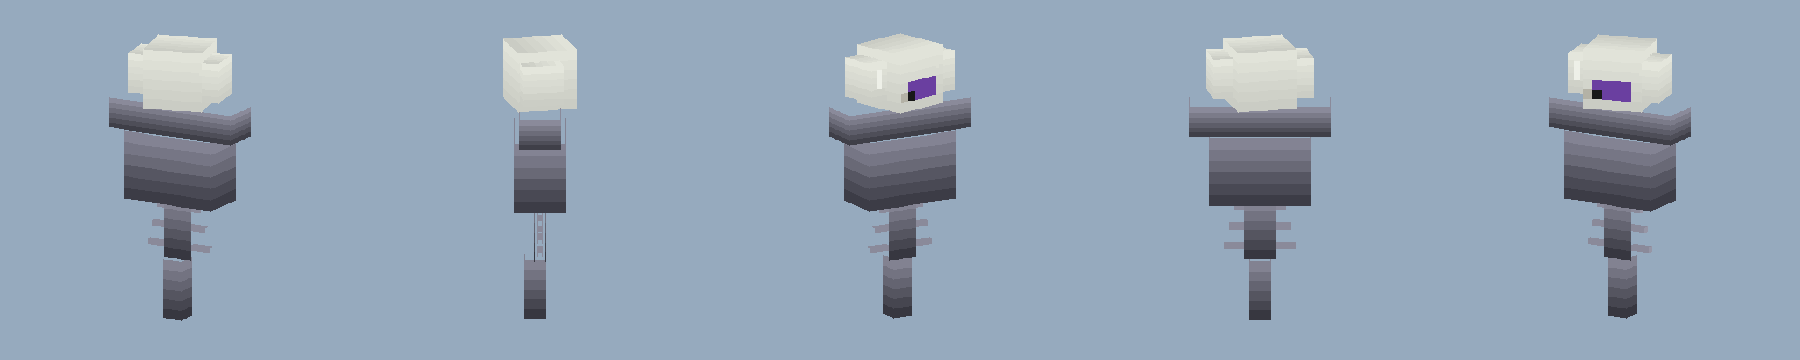
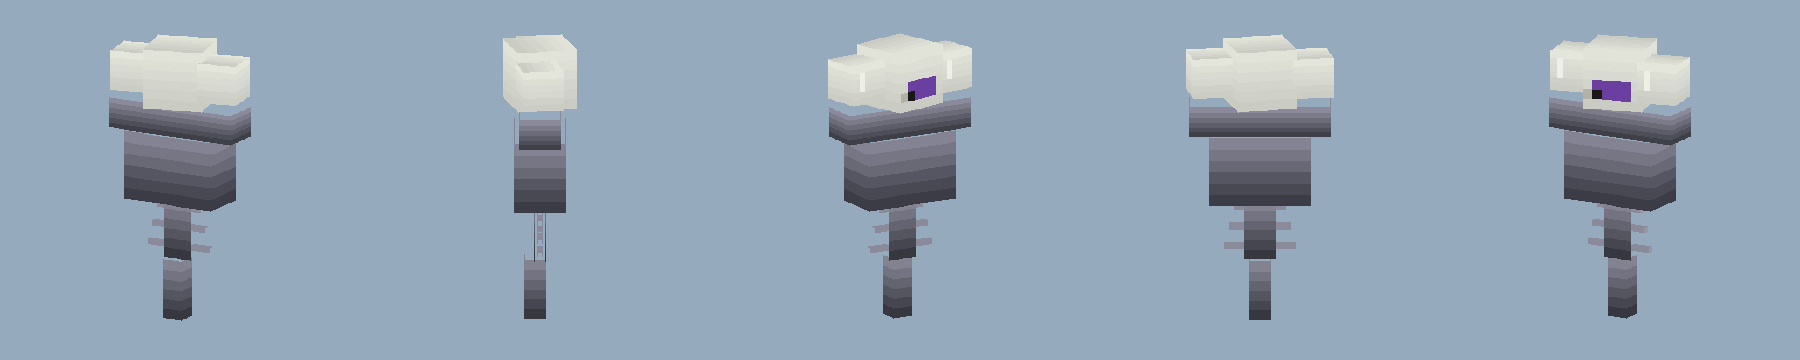
vault sync from DESKTOP-49GFK3E

diff --git a/Agents/wither-model.md b/Agents/wither-model.md
@@ -8,7 +8,8 @@ mods: kingdoms
 versions: 
 started: 2026-11-18
 owns:
-  - art/wither.bbmodel
+  - kingdoms/art/wither.bbmodel
+  - kingdoms/art/wither.png
   - docs/Wither-Model-Spec.md
 ---
 # Wither: new model, animations and sounds (modelling bot)
@@ -25,12 +26,13 @@ owns:
 - Build and verify compiles
 
 ## Notes
-- Spec doc created at docs/Wither-Model-Spec.md
-- Minimal .bbmodel created at kingdoms/art/wither.bbmodel
-- Texture: 128x128 solid red (placeholder; will be replaced with proper Wither texture)
-- Model has: root, body, center head, left head, right head groups
-- Status: blocked awaiting Andy's preview approval
-- Task referenced in vault: E:/Jaymo Vault Live/Inbox/wither-model.md with status: blocked
+- 2026-11-18: restarted after Andy sent the first attempt back (invalid JSON .bbmodel, no render, spec wrongly gave the Wither four arms).
+- Shape approved in draft: big centre skull (12x12x12) and two smaller side skulls (8x8x8) on a 28x6x8 shoulder bar, centre skull higher; 20x14x10 body core beneath; 6x12x2 spine hanging from the body centre with three rib pairs; 4x12x4 tail at the bottom. About 3.5 blocks tall, like vanilla. No arms, no legs.
+- Texture: 128x128 single sheet embedded in the .bbmodel; source copy at kingdoms/art/wither.png. Bone skulls with dark eye sockets, violet (0x6A3FA0) accents, dark stony body/bar/spine/ribs/tail.
+- Animation: "idle" (4s loop: hover bob, centre skull looks side to side, side skulls follow gently). Remaining fight animations (ravage, orbit, beam tell/fire, charge tell/rush, stun, climb, throw blues, spawn, death) only after Andy approves the look.
+- Proof: .bbmodel parses as valid JSON; tools/bbmodel_bake.py bakes it to 7 bones / 58 quads with the idle animation; preview sheets rendered to E:/Jaymo Vault Live/Assets/wither-model/ and vision-checked: no missing faces, no texture gaps at cube connections, no stray cubes.
+- Previews: wither-rest.png (5 angles), wither-look-left.png, wither-look-right.png (skulls turned), wither-idle.png (mid bob), wither-charge.png (spine arched).
+- Waiting on Andy's yes on the look before any GeckoLib conversion, renderer, sounds, or Java goes into the mod. Nothing has been seen in game.
 
 ## Done
-Spec document written and vault status set to blocked. Awaiting Andy's review of model previews before proceeding with GeckoLib conversion and in-game testing.
+Spec document rewritten (docs/Wither-Model-Spec.md). Valid editable model (kingdoms/art/wither.bbmodel) plus texture (kingdoms/art/wither.png) committed to the claude/wither-model branch. Preview renders posted for Andy's approval; vault status blocked awaiting his answer.

diff --git a/Agents/rig-beetle-6-senses-nova.md b/Agents/rig-beetle-6-senses-nova.md
@@ -1,0 +1,39 @@
+---
+status: running
+task: Rig patch 6: senses, tech override and nova - Active camouflage, tech override, ore callouts, hex visor, nova
+branch: claude/rig-beetle-6-senses-nova
+with:
+pr:
+mods: powers
+versions:
+started: 2026-11-18
+owns:
+  - src/main/java/com/jaymospowers/rig/RigCloak.java (new)
+  - src/main/java/com/jaymospowers/rig/RigOverride.java (new)
+  - src/main/java/com/jaymospowers/rig/RigNova.java (new)
+  - changes/powers/rig-beetle-6-senses-nova.md
+---
+# Rig patch 6: senses, tech override and nova
+
+**Task:** Implement five new Rig actives as menu entries: Active camouflage (se-camo), Tech override (se-override), Ore callouts (se-ore), Hex visor (se-visor), Nova (hl-nova). Each with charge cost, poses, and sounds.
+
+## Plan
+- Create RigCloak.java for active camouflage (builds on RigVisibility)
+- Create RigOverride.java for tech override (golems, doors, androids/mechs)
+- Create RigNova.java for nova panic button
+- Add ore callouts to RigScan (passive ping while digging)
+- Add hex visor effect to RigHelmView (closing wipe + hex grid)
+- Add new actions to RigNet, RigPicks, RigMenuScreen
+- Register new classes in RigPicks.init()
+- Write lore paragraph for tech override
+- Build and test
+
+## Notes
+- Camo: timed cloak, shimmers, mobs lose you, first hit is ambush (more damage)
+- Tech override: iron/clockwork golems freeze, redstone doors open, Frostborn androids/mechs stutter (needs lore)
+- Ore callouts: passive quiet ping when digging near ore, extends RigScan
+- Hex visor: short closing wipe + faint hex grid at edges in RigHelmView
+- Nova: all charge spent, everything near thrown back, breaks grab
+
+## Done
+What a player will see, and what wasn't tested.

diff --git a/Inbox/wither-model.md b/Inbox/wither-model.md
@@ -1,5 +1,5 @@
 ---
-status: claimed
+status: blocked
 for: prometheus
 from: pc-claude
 asked: 2026-11-18
@@ -42,3 +42,4 @@ Wither "four arms". Start again from a clean branch off master.
 - 2026-11-18 3:52 PM Checked for Andy: there is no preview. E:/wt/wither-model has only the spec and a 3 KB wither.bbmodel that is not valid JSON (it fails to parse at line 8), and no render was ever made. The spec also gives the Wither "four arms", but the vanilla Wither has none (shoulder bar, spine, ribs, tail). It needs redoing before Andy can approve anything.
 - 2026-11-18 16:14 Andy chose to send it back to Prometheus. Reset to open, with the shape corrected and proof required before blocked (see Restart above).
 - 2026-11-18 16:24 hermes-modeller's last run stopped before finishing; handed back as open so it can carry on.
+- 2026-11-18 5:27 PM hermes-modeller: previews ready for Andy's look. kingdoms/art/wither.bbmodel is valid JSON and bakes cleanly (7 bones, 58 quads, idle animation); tools/bbmodel_preview.py rendered the poses. Renders in E:/Jaymo Vault Live/Assets/wither-model/: wither-rest.png (five angles), wither-look-left.png, wither-look-right.png (skulls turn), wither-idle.png (mid hover bob), wither-charge.png (spine arched). Shape: big centre skull plus two smaller side skulls on a shoulder bar, spine with ribs, tail at the bottom, no arms or legs, per your restart note. Texture is a painted 128x128 sheet embedded in the .bbmodel, source copy at kingdoms/art/wither.png. Waiting on your yes before GeckoLib conversion, fight animations, sounds or any Java. Nothing has been seen in game. Reply on this task's Notes.

diff --git a/Agents/rig-beetle-5-mind.md b/Agents/rig-beetle-5-mind.md
@@ -1,0 +1,30 @@
+---
+status: in-review
+task: rig-beetle-5-the-mind
+branch: claude/rig-beetle-5-mind
+with: Claude Code (PC)
+pr: 1773
+mods: powers
+versions: 
+started: 2026-11-18
+owns:
+  - src/main/java/com/jaymospowers/rig/RigTalk.java (new)
+  - src/main/java/com/jaymospowers/rig/RigPilot.java (new)
+  - src/main/java/com/jaymospowers/rig/RigEvac.java (new)
+  - src/main/java/com/jaymospowers/rig/RigLog.java (new)
+  - src/client/java/com/jaymospowers/client/rig/RigPilotClient.java (new)
+  - src/client/java/com/jaymospowers/client/rig/RigLogClient.java (new)
+  - hook lines: Rig.java (init), RigSentry.java (wreck skip), RigClient.java (init, flight), RigHud.java (log fold-out), RigHelmView.java (verdict)
+  - src/main/resources/assets/jaymospowers/lang/parts/rig_mind_talk.json
+  - changes/powers/rig-beetle-5-mind.md
+---
+# rig-beetle-5-mind
+
+**Task:** Rig patch 5: the Mind talks in chat, flies you (autopilot), calls threats, evacuates you, fights while you're down, and keeps a combat log.
+
+## Notes
+- Branch claude/rig-beetle-5-mind (an older E:/wt/rig-beetle-5-the-mind worktree from a stalled run is left untouched).
+- md-voice not built: needs a voice source Andy is happy with (ask him which voice).
+
+## Done
+The Mind answers chat commands privately (light, dig out, report, scan, where, recipes, autopilot), flies you to a village or home, adds threat verdicts on the visor, throws you clear when the suit breaks, fires while you're downed, and logs blows with vitals on the HUD. Voice waits on Andy. Compiled on the PC, CI passes; not played.

diff --git a/Inbox/rig-beetle-5-the-mind.md b/Inbox/rig-beetle-5-the-mind.md
@@ -1,11 +1,11 @@
 ---
-status: claimed
+status: in-review
 for: any
 from: coordinator (Zemo Baki cross-reference thread)
 asked: 2026-11-18
 thread: https://claude.ai/code/project/chan_01638ouFWZKwEZ1ET74kBk9B?thread=cmsg_01638ouFWZKwEZ1ET74kBk9BX7wxqnAirwqSZbVfgHyi5g
 claimed_by: rig-beetle-5-the-mind
-pr: 
+pr: 1773
 suggested_owns:
   - src/main/java/com/jaymospowers/rig/RigTalk.java (new)
   - src/main/java/com/jaymospowers/rig/RigPilot.java (new)
@@ -42,3 +42,4 @@ suggested_owns:
 ## Notes
 - 2026-11-18 16:23 hermes-b's claim had no sign of work for 30 min: handed back as open.
 - 2026-11-18 16:55 PC Claude took it on branch claude/rig-beetle-5-mind (an older E:/wt/rig-beetle-5-the-mind worktree was left from a stalled run, no commits; left untouched).
+- 2026-11-18 17:09 Question for Andy: md-voice needs a voice source you're happy with (VoiceStudio's default is non-commercial). Which voice? Everything else is in PR #1773.

diff --git a/Inbox/rig-beetle-3-back-rig.md b/Inbox/rig-beetle-3-back-rig.md
@@ -4,7 +4,7 @@ for: any
 from: coordinator (Zemo Baki cross-reference thread)
 asked: 2026-11-18
 thread: https://claude.ai/code/project/chan_01638ouFWZKwEZ1ET74kBk9B?thread=cmsg_01638ouFWZKwEZ1ET74kBk9BX7wxqnAirwqSZbVfgHyi5g
-claimed_by: hermes-a
+claimed_by: 
 pr: 
 suggested_owns:
   - src/main/java/com/jaymospowers/rig/RigBack.java (new)
@@ -39,3 +39,4 @@ suggested_owns:
 
 ## Notes
 - 2026-11-18 14:15 hermes-a's last run stopped before finishing; handed back as open so it can carry on.
+- 2026-11-18 17:41 rig-beetle-3-back-rig's claim had no sign of work for 30 min: handed back as open.

diff --git a/Agents/lanterns-10-orbit.md b/Agents/lanterns-10-orbit.md
@@ -1,5 +1,5 @@
 ---
-status: running
+status: in-review
 task: lanterns-10-orbit
 branch: claude/lanterns-10-orbit
 with: Claude Code (PC)
@@ -22,3 +22,4 @@ owns:
 - Not done: pods in orbit.
 
 ## Done
+The high sky's planet curves more the higher you climb, the sun is hard and white with glare spikes, and high up (orbit) a Z Fighter's cruise goes 3x; dive to come down anywhere. Compiled on the PC, CI passes; not played.
